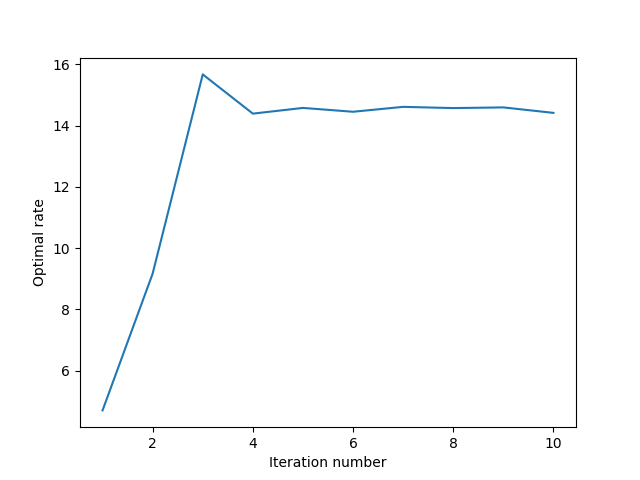
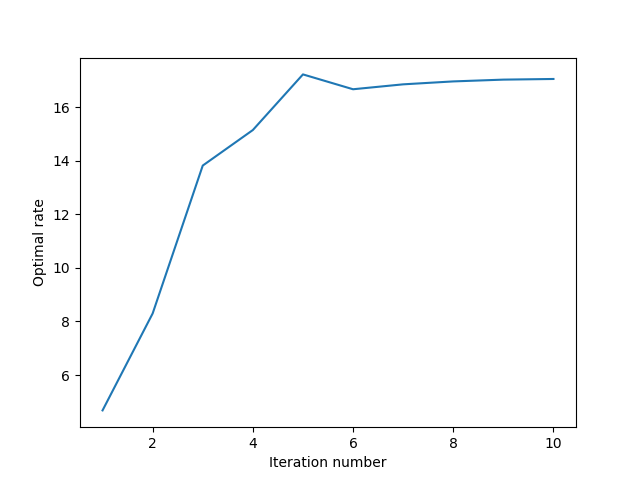
divide by sqrt(3)

diff --git a/Rate/Rate_optimization/rate_opt.py b/Rate/Rate_optimization/rate_opt.py
@@ -5,7 +5,7 @@ import matplotlib.pyplot as plt
 # Function used in constraint 2
 def c2(M: cp.Variable, v) -> cp.Variable:
     M_res = M
-    M_res = M_res - cp.diag(cp.diag(M_res)) + cp.diag(v)
+    M_res = (M_res - cp.diag(cp.diag(M_res)) + cp.diag(v))/np.sqrt(3)
     return cp.norm(M_res, axis=1)
 
 # Problem constants
